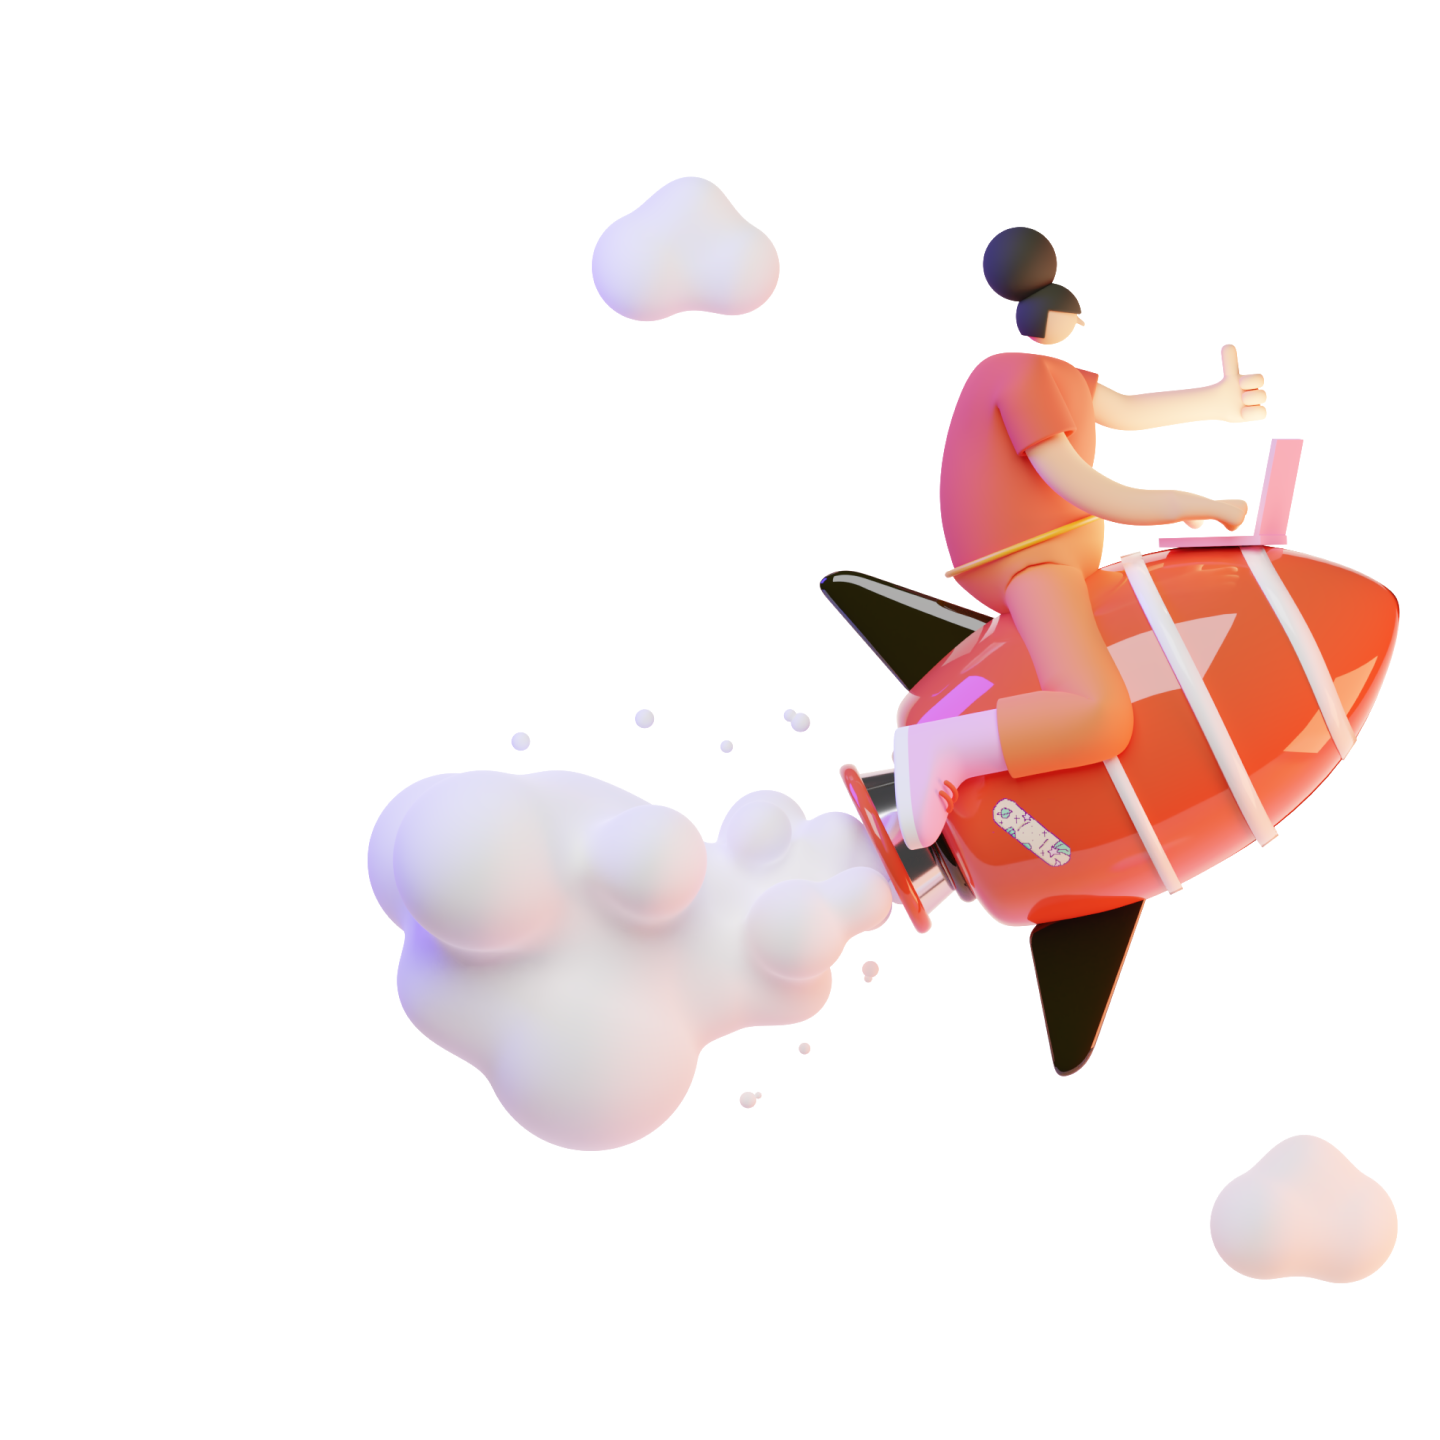
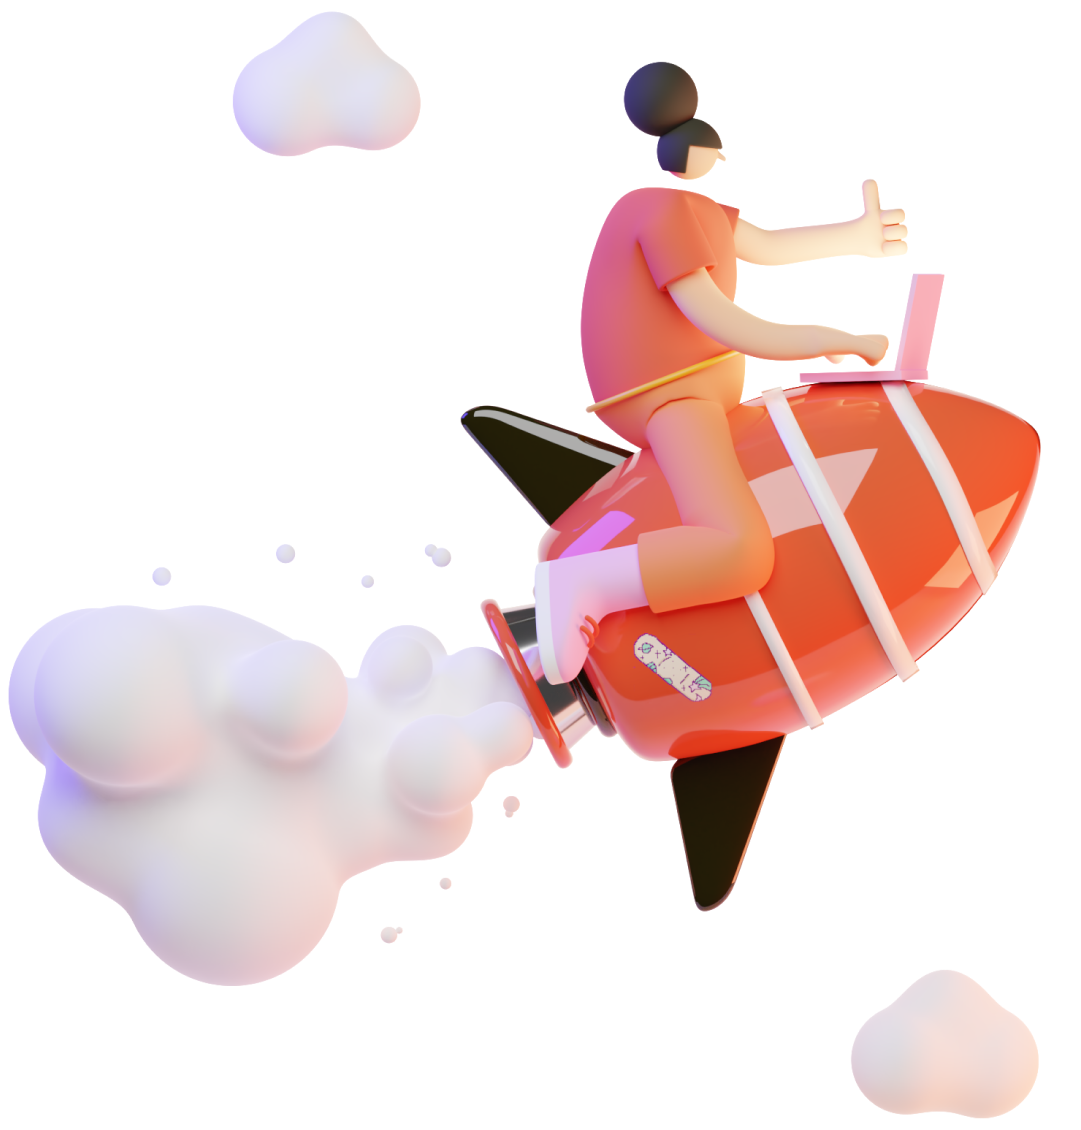
fix hero image, title

diff --git a/src/components/all.sass b/src/components/all.sass
@@ -11,10 +11,10 @@ $body-color: #333
 $black: #2b2523
 
 $desktop: 1150px
-$tablet: 890px
+$tablet: 977px
 $phone: 640px
 
-$h1-base: 7em
+$h1-base: 6em
 $h1-desktop: 5em
 $h1-tablet: 4em
 $h1-phone: 2.5em
@@ -43,6 +43,9 @@ nav
   justify-content: center
   @media screen and (max-width: $tablet)
     flex-direction: column
+    min-height: 80vh
+  @media screen and (max-width: $phone)
+    min-height: 50vh
   .cta
     a, button
       border-radius: 99px
@@ -163,25 +166,25 @@ nav
       min-height: 100vh;
       justify-content: center
       align-items: center
-      .heroimage1
-        position: absolute
-        right: 0
-        top: 0
-        pointerEvents: none
-        transform: translate(0px, 0px) scale(1) 
-        transform-origin: right center
-      @media screen and (max-width: $desktop)
-        .heroimage1
-          transform: scale(0.7)translateY(-25vh)
       @media screen and (max-width: $tablet)
-        display: flex
-        align-items: center
-        position: relative
-        min-height: 50vh
-        .heroimage1
-          position: relative
-          width: 100%     
-          transform: translate(-15vw, -10vh) scale(1.5)    
+        min-height: 25vh
+      @media screen and (max-width: $phone)
+        min-height: 0vh
+      .heroimage1
+        width: 100%
+        height: auto
+        transform: scale(1.5)
+        transform-origin: right top
+        @media screen and (max-width: $tablet)
+          width: 70%
+          height: auto
+          transform: scale(2)
+          transform-origin: center right
+        @media screen and (max-width: $phone)
+          height: 25vh
+          width: auto
+          transform: scale(2)
+          transform-origin: center
   &.left
     flex-direction: row-reverse
     @media screen and (max-width: $tablet)

diff --git a/src/templates/index-page.js b/src/templates/index-page.js
@@ -100,6 +100,7 @@ export const IndexPageTemplate = ({
       <div className="content">
         <h1 style={{color: "#1E90FF"}}>Contact</h1>
         <form name="contact" method="POST" data-netlify="true">
+          <input type="hidden" name="form-name" value="contact" />
           <TextField className="formField" label="Name" variant="filled" fullWidth />
           <TextField className="formField" label="E-Mail" variant="filled" fullWidth />
           <TextField className="formField" label="Message" variant="filled" multiline fullWidth />

diff --git a/gatsby-config.js b/gatsby-config.js
@@ -1,6 +1,6 @@
 module.exports = {
   siteMetadata: {
-    title: 'Gatsby + Netlify CMS Starter',
+    title: 'Don\'t be boring',
     description:
       'This repo contains an example business website that is built with Gatsby, and Netlify CMS.It follows the JAMstack architecture by using Git as a single source of truth, and Netlify for continuous deployment, and CDN distribution.',
   },

diff --git a/src/pages/index.md b/src/pages/index.md
@@ -6,10 +6,7 @@ image: /img/mainillustration.png
 mainpitch:
   title: What i do
   description: >
-    Kaldi is the coffee store for everyone who believes that great coffee
-    shouldn't just taste good, it should do good too. We source all of our beans
-    directly from small scale sustainable farmers and make sure part of the
-    profits are reinvested in their communities.
+    UX/UI Designer, Javascript Developer & Motion Designer
   skills:
     - Ux/Ui Design
     - Javascript Development
